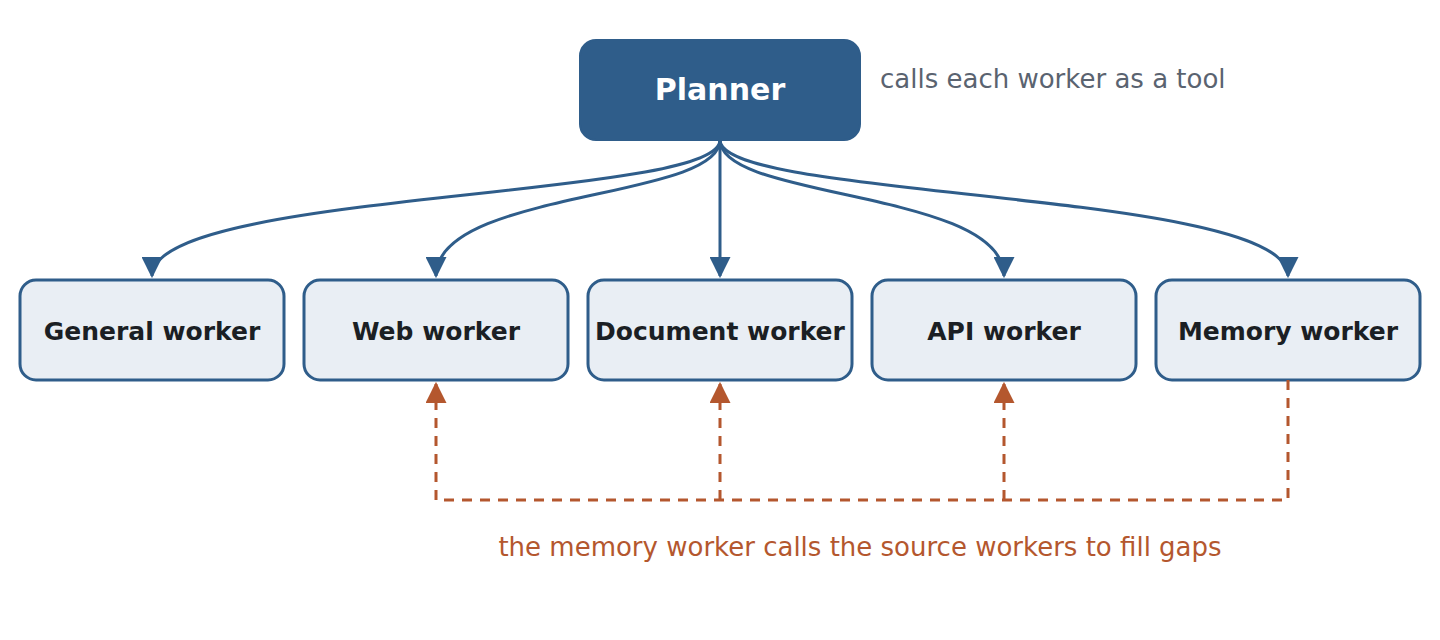
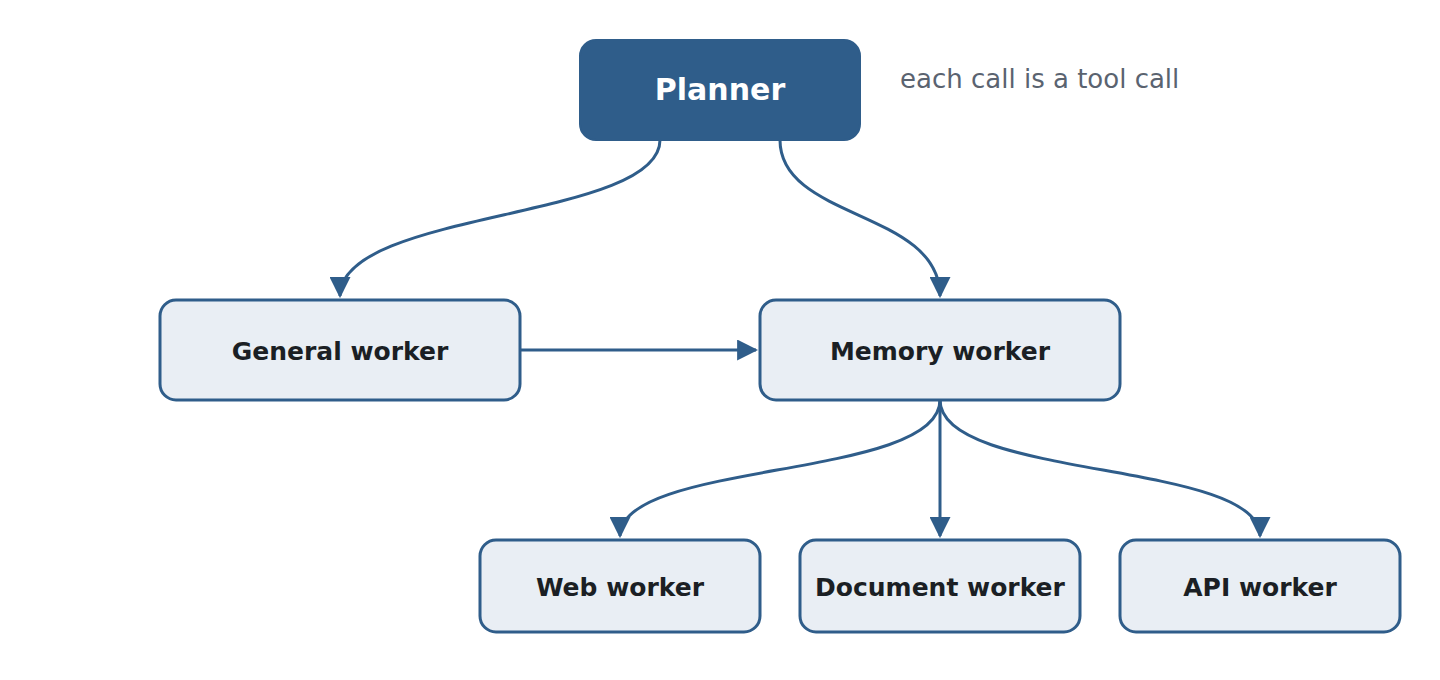
Draft post 2: redraw the split diagram with the real call paths; align the text
Claude-Session: https://claude.ai/code/session_014hgnAC6ZrWgSpC8ZPFYKew

diff --git a/_posts/DRAFT-scaling-agents-2-drawing-lines-between-workers.md b/_posts/DRAFT-scaling-agents-2-drawing-lines-between-workers.md
@@ -28,21 +28,21 @@ The single responsibility principle says a class should have one reason to chang
 
 ## The split
 
-So we split the general worker, one worker per source of data.
+So we split the general worker. Each source of data got its own worker, and a memory worker sat in front of them.
 
 1. The general worker kept the reasoning tasks the planner gave it, and nothing else.
-2. The web worker searched the web, scraped pages and did a first pass of analysis on what it found.
-3. The document worker dealt with the files the user uploaded.
-4. The API worker called the backend APIs, fetched data and reasoned about it.
-5. The memory worker kept what the others had found and fetched it back when needed. When something was missing, it called the web, document or API worker to fill the gap. It is interesting enough to get its own post.
+2. The memory worker was where the other agents went for data. It checked what was already known first. If something was missing, it asked the right source worker. It is interesting enough to get its own post.
+3. The web worker searched the web, scraped pages and did a first pass of analysis on what it found.
+4. The document worker dealt with the files the user uploaded.
+5. The API worker called the backend APIs, fetched data and reasoned about it.
 
 Every source has its own quirks. Web pages are messy and sometimes wrong. Uploaded documents come in every format a user can think of. APIs return structured data, sometimes far more of it than you asked for. A worker that deals with only one of these can have instructions about only that one.
 
-![The planner calls five workers as tools: general, web, document, API and memory. The memory worker in turn calls the web, document and API workers to fill gaps](/images/scaling-agents/2-split-workers.png)
+![The planner calls the general worker and the memory worker. The general worker calls the memory worker. The memory worker calls the web, document and API workers](/images/scaling-agents/2-split-workers.png)
 
 ## Agents as tools
 
-Here is where this system is different from the one in the first post. There is no queue. The planner calls each worker the same way it calls any other tool. The worker runs, returns its result and the planner carries on. All of it happens inside one process.
+Here is where this system is different from the one in the first post. There is no queue. The planner calls the general worker and the memory worker the same way it calls any other tool. The general worker calls the memory worker the same way, and so does the memory worker when it needs a source worker. Each worker runs, returns its result and the caller carries on. All of it happens inside one process.
 
 Most agent frameworks support two ways for one agent to involve another.
 
